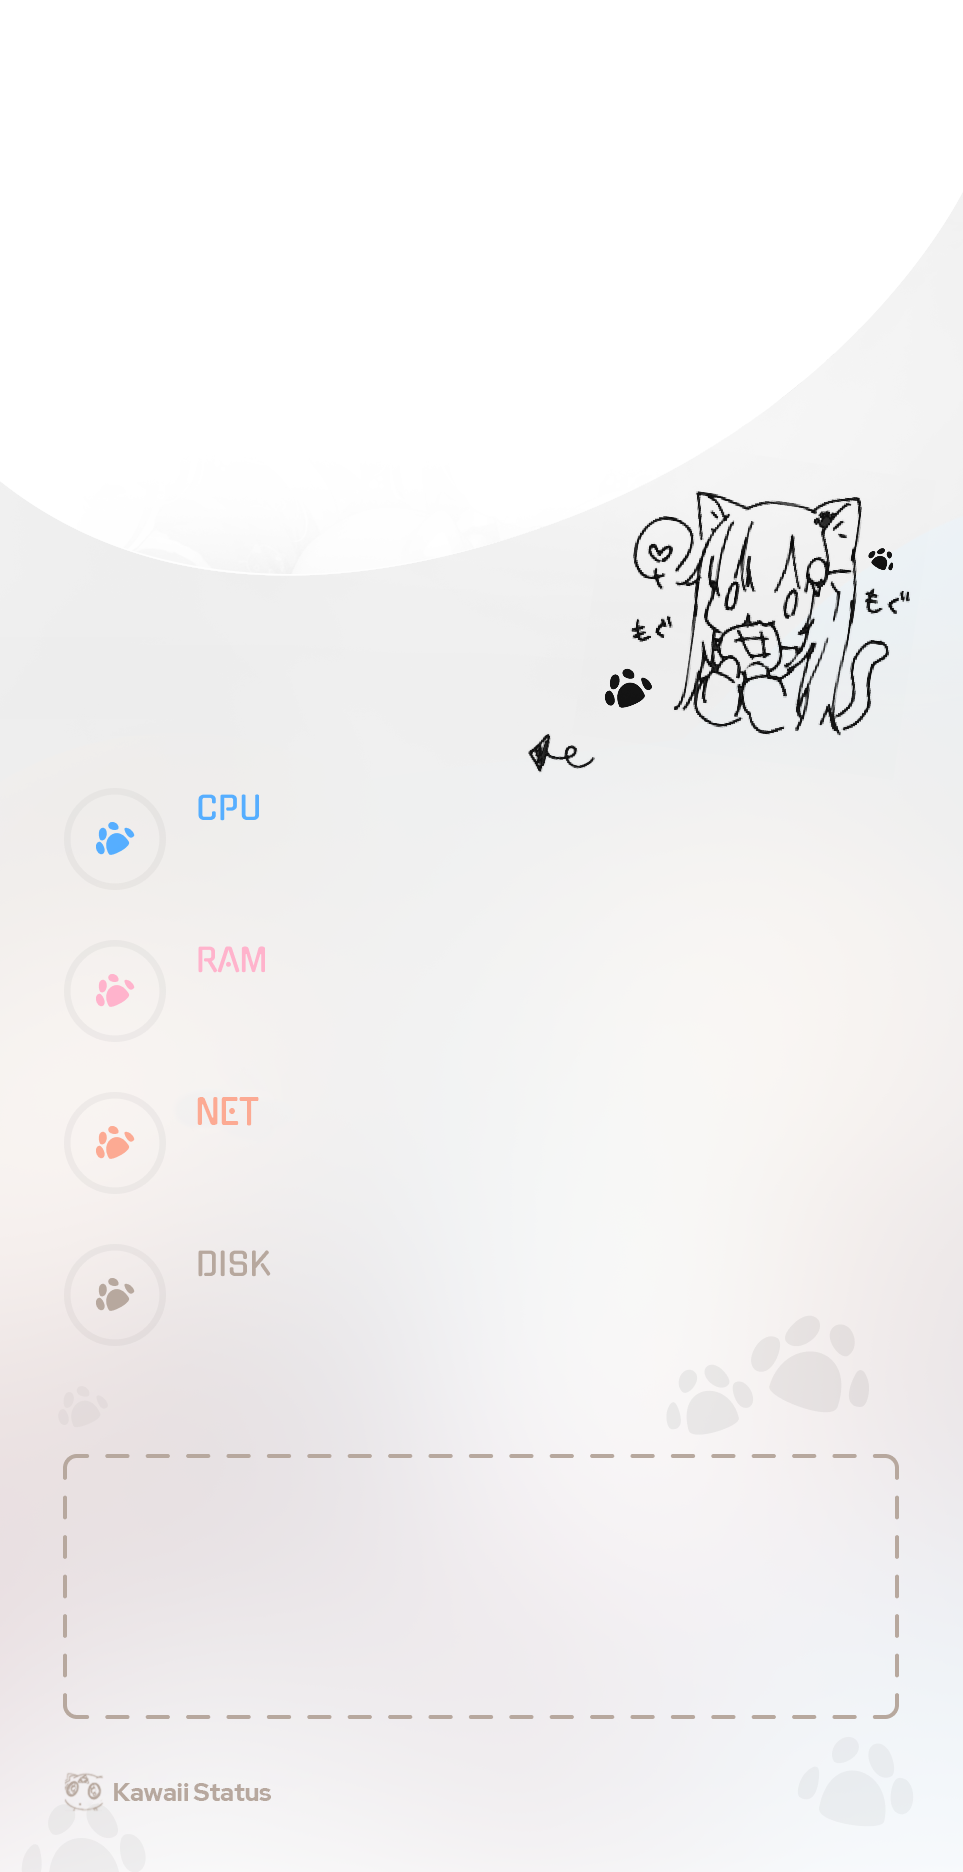
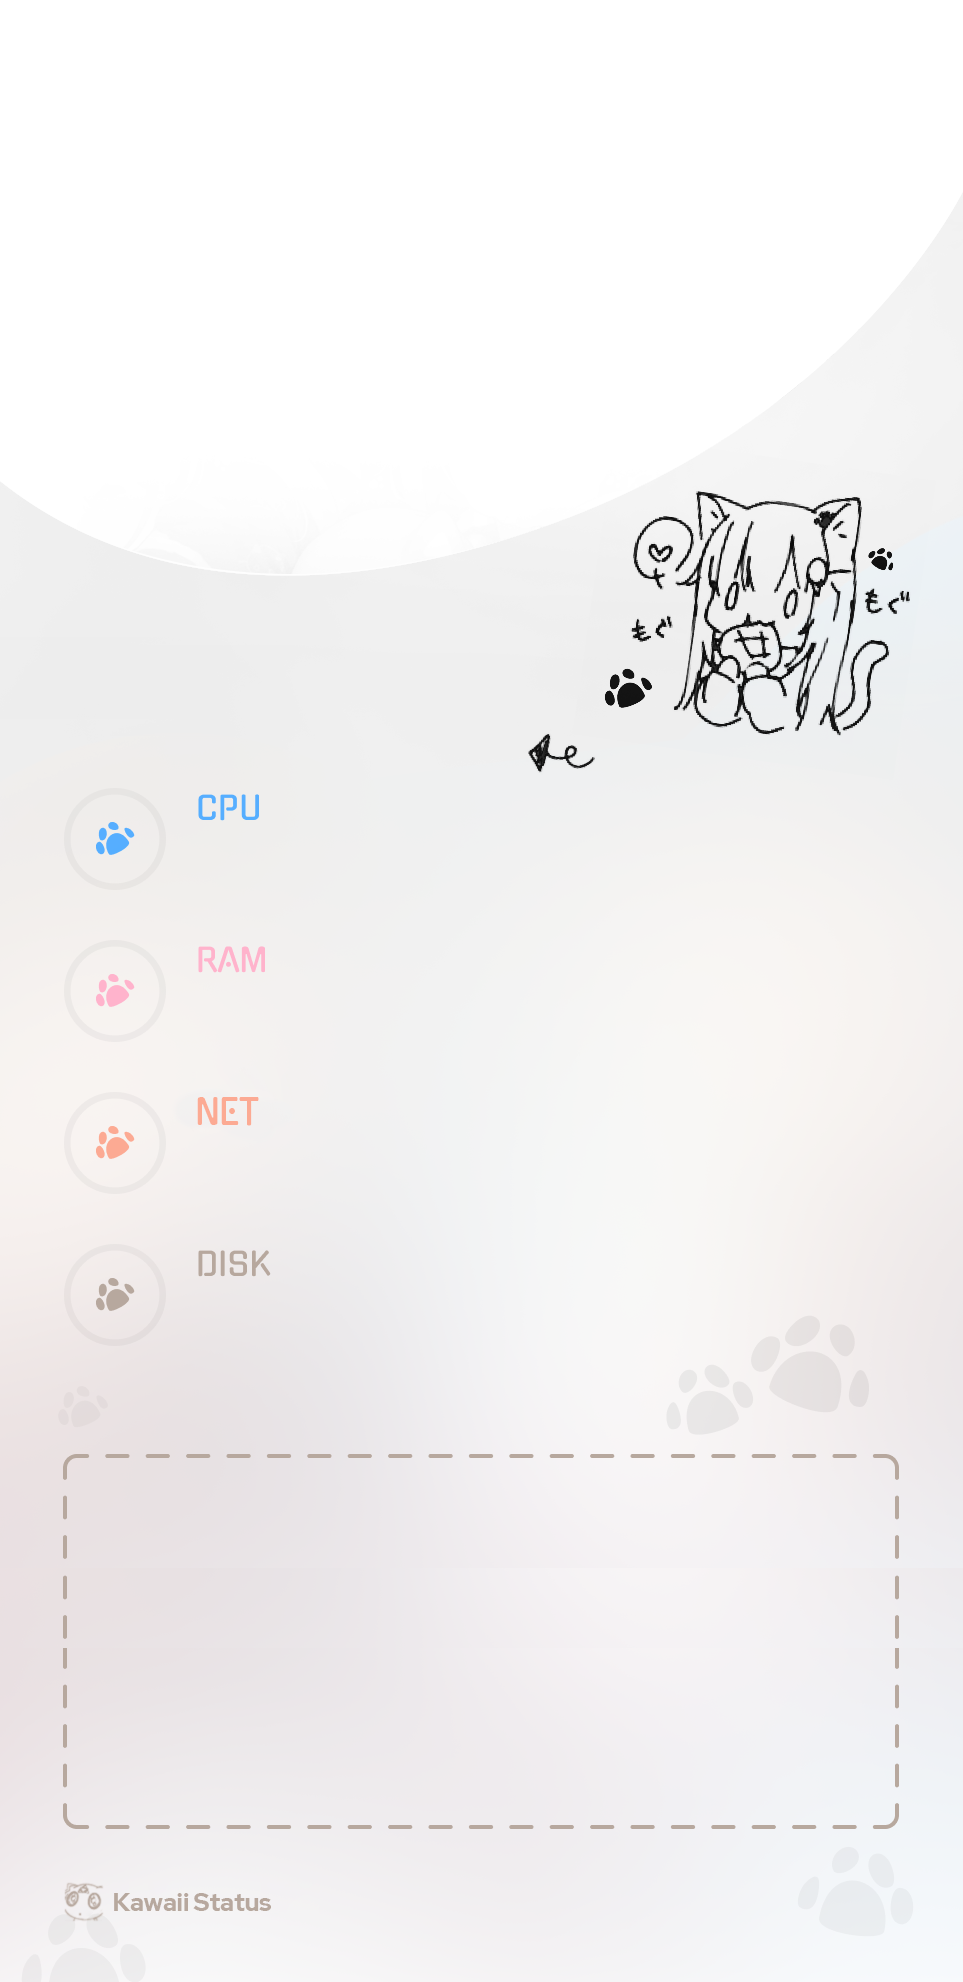
🍭 添加新信息

diff --git a/model/getData.js b/model/getData.js
@@ -5,6 +5,8 @@ import { getDiskUsageCircle } from "../components/Disk.js"
 import { getSysInfo } from "../components/System.js"
 import { getGpuInfo } from "../components/GPU.js"
 import { getPluginNumInfo } from "../components/Plugin.js"
+import { getAccountInfo } from "../components/Account.js"
+import { getAdapter } from "../components/Adapter.js"
 import Version from "../components/Version.js"
 import formatTime from "../utils/formatTime.js"
 import Config from "../components/Config.js"
@@ -25,25 +27,29 @@ export default new class getData {
         };
     }
 
-    async getInfoData() {
-        const [cpu, system, gpu, plugin] = await Promise.all([
+    async getInfoData(bot) {
+        const [cpu, system, gpu, plugin, adapter, account] = await Promise.all([
             getCpuModel(),
             getSysInfo(),
             getGpuInfo(),
-            getPluginNumInfo()
+            getPluginNumInfo(),
+            getAdapter(bot),
+            getAccountInfo(bot)
         ]);
         return {
             cpu,
             system,
             gpu,
-            plugin
+            plugin,
+            adapter,
+            account
         };
     }
 
     async getData(e) {
         const [dashboardData, infoData] = await Promise.all([
             this.getDashboardData(),
-            this.getInfoData()
+            this.getInfoData(e.bot)
         ]);
 
         const bot = e.bot || Bot;

diff --git a/components/Adapter.js b/components/Adapter.js
@@ -1,0 +1,22 @@
+import fs from 'fs'
+import { _path } from '../model/path.js'
+import { formatNumber } from '../utils/formatTime.js'
+
+export async function getAdapter(bot) {
+    const { app_name: appName, app_version: appVersion } = bot.version || { app_name: 'ICQQ(QQ)', app_version: getIcqqVersion() }
+    const sent = formatNumber(await redis.get(`Yz:count:send:msg:bot:${bot.uin}:total`)) || bot.stat?.sent_msg_cnt || 0
+    const recv = formatNumber(await redis.get(`Yz:count:receive:msg:bot:${bot.uin}:total`)) || bot.stat?.recv_msg_cnt || 0
+    return {
+        key: 'Adapter',
+        value: `${appName} ${appVersion} (↓${recv} ↑${sent})`
+    }
+}
+
+function getIcqqVersion() {
+    try {
+        return JSON.parse(fs.readFileSync(`${_path}/node_modules/icqq/package.json`, "utf-8")).version
+    } catch {
+        return "unknown"
+    }
+}
+

diff --git a/resources/template/default/template.html b/resources/template/default/template.html
@@ -139,6 +139,14 @@
             <span class="__information-block__key">{{data.Info.plugin.key}}</span>
             <span class="__information-block__value">{{data.Info.plugin.value}}</span>
           </li>
+          <li class="__information-block">
+            <span class="__information-block__key">{{data.Info.adapter.key}}</span>
+            <span class="__information-block__value">{{data.Info.adapter.value}}</span>
+          </li>
+          <li class="__information-block">
+            <span class="__information-block__key">{{data.Info.account.key}}</span>
+            <span class="__information-block__value">{{data.Info.account.value}}</span>
+          </li>
         </ul>
         <p class="__footer" id="config_footer">{{data.Runtime}}</p>
       </div>

diff --git a/resources/template/default_noAvatar/template.html b/resources/template/default_noAvatar/template.html
@@ -138,6 +138,14 @@
             <span class="__information-block__key">{{data.Info.plugin.key}}</span>
             <span class="__information-block__value">{{data.Info.plugin.value}}</span>
           </li>
+          <li class="__information-block">
+            <span class="__information-block__key">{{data.Info.adapter.key}}</span>
+            <span class="__information-block__value">{{data.Info.adapter.value}}</span>
+          </li>
+          <li class="__information-block">
+            <span class="__information-block__key">{{data.Info.account.key}}</span>
+            <span class="__information-block__value">{{data.Info.account.value}}</span>
+          </li>
         </ul>
         <p class="__footer" id="config_footer">{{data.Runtime}}</p>
       </div>

diff --git a/utils/formatTime.js b/utils/formatTime.js
@@ -43,3 +43,11 @@ export default function formatTime(time, format, repair = true) {
 
     return timeObj
 }
+
+export function formatNumber(num) {
+    if (num < 1000) return num
+    else if (num < 1000000) return Math.floor(num / 100) / 10 + 'k'
+    else if (num < 1000000000) return Math.floor(num / 100000) / 10 + 'm'
+    else if (num < 1000000000000) return Math.floor(num / 100000000) / 10 + 'g'
+    else return 'Infinity'
+}

diff --git a/resources/template/default/assets/css/neko/style.css b/resources/template/default/assets/css/neko/style.css
@@ -6,7 +6,7 @@
 
 :root {
   width: 963px;
-  height: 1872px;
+  height: 1982px;
   --main-color: #54adff;
 }
 
@@ -20,7 +20,7 @@
 
 #background-page {
   width: 963px;
-  height: 1872px;
+  height: 1982px;
   background-image: url(../../image/neko.png);
   padding: 636px 64px 65px;
   box-sizing: border-box;

diff --git a/resources/template/default_noAvatar/assets/css/neko/style.css b/resources/template/default_noAvatar/assets/css/neko/style.css
@@ -6,7 +6,7 @@
 
 :root {
   width: 963px;
-  height: 1872px;
+  height: 1982px;
   --main-color: #54adff;
 }
 
@@ -20,7 +20,7 @@
 
 #background-page {
   width: 963px;
-  height: 1872px;
+  height: 1982px;
   background-image: url(../../image/neko.png);
   padding: 636px 64px 65px;
   box-sizing: border-box;

diff --git a/components/Account.js b/components/Account.js
@@ -1,0 +1,8 @@
+export async function getAccountInfo(bot) {
+    const friendNumber = bot.fl.size
+    const groupNumber = bot.gl.size
+    return {
+        key: 'Account',
+        value: `${friendNumber} Friends & ${groupNumber} Groups`
+    }
+}
